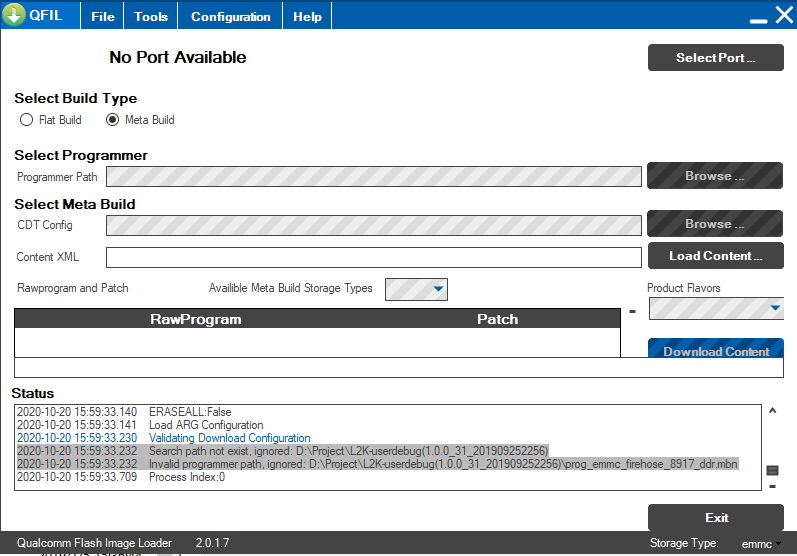
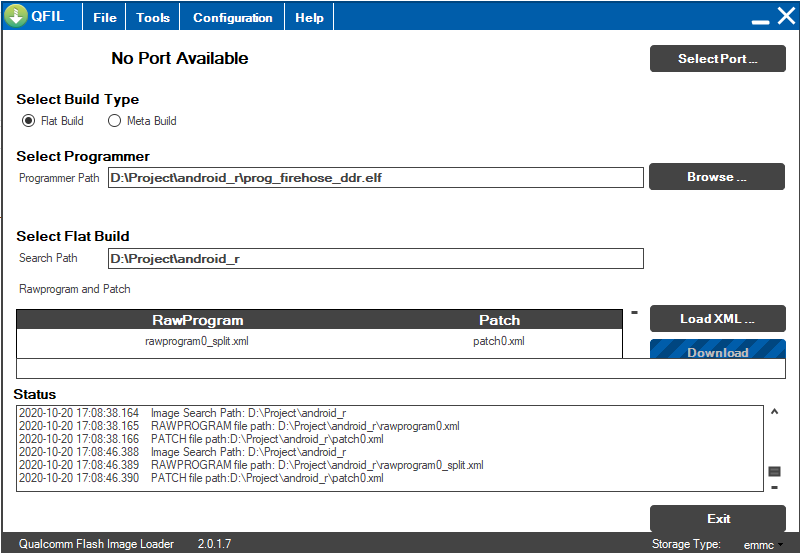
update

Changed region(s): [[0.0, 0.0, 1.0, 1.0], [0.1205, 0.0922, 0.3312, 0.123]]

diff --git a/_posts/2020-10-20-Android刷机工具.md b/_posts/2020-10-20-Android刷机工具.md
@@ -118,9 +118,9 @@ android 11
 
 * Select Port选择烧录端口，选到9008端口进行烧录
 
-* Select build Type -选择 Flat build, Select Programmer-选择烧录build路径下elf文件：prog_firehose_ddr.elf
+* Select build Type -选择 Flat build, Select Programmer-选择烧录版本路径下elf文件：prog_firehose_ddr.elf (不同版本可能不相同)
 
-* Load XML-双击默认路径的xml文件,打开 patch0.xml文件，最后点击Download进行烧录，烧录完成后设备自动重启
+* Load XML-双击默认路径的xml文件(不同版本不相同),打开 patch0.xml 文件，最后点击 Download 进行烧录，烧录完成后设备自动重启
 
 
 
